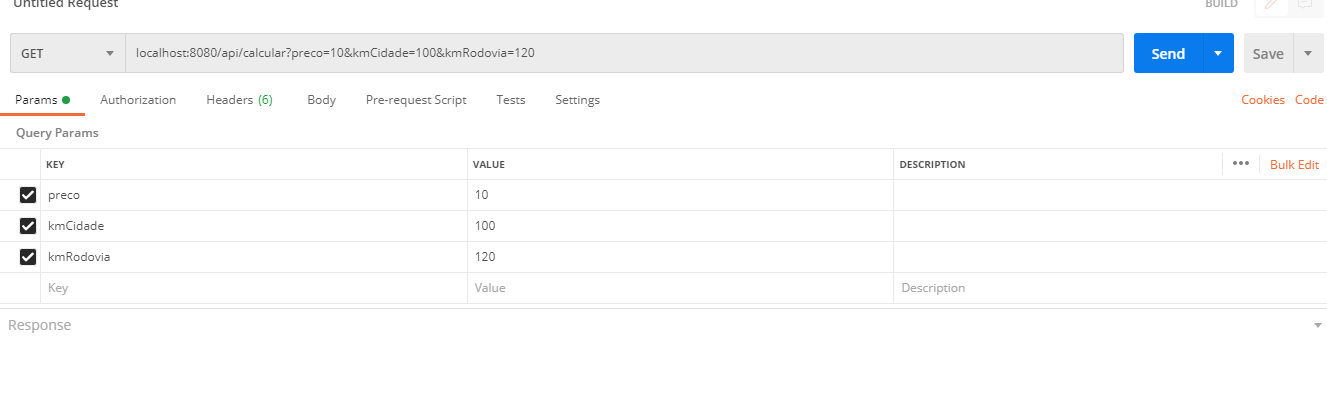
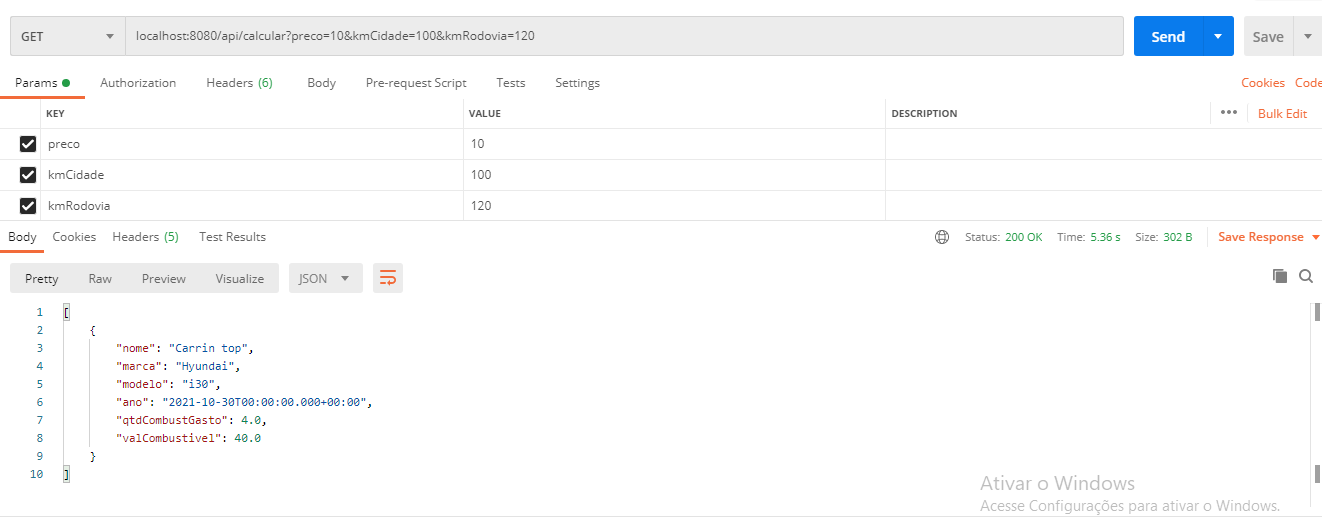
Atualizando README, adicionando imagens novas que serão utilizadas pelo README

diff --git a/README.md b/README.md
@@ -1,2 +1,101 @@
-# Desafio-fluig
-Desafio / teste técnico
+<h1 align="center">    
+    <br/>Desafio-fluig
+</h1>
+<p align="center">Desafio / Teste técnico <strong>Back-end</strong>.</p>
+
+<p align="center">
+  <a aria-label="Versão do Java" href="https://www.java.com/pt-BR/download/ie_manual.jsp?locale=pt_BR">
+    <img src="https://img.shields.io/static/v1?label=Java&message=1.8.0_311&color=success"></img>
+  </a>
+  <a aria-label="Versão do Maven" href="https://maven.apache.org/download.cgi">
+    <img src="https://img.shields.io/static/v1?label=Maven&message=3.8.3&color=red"></img>
+  </a>
+  <a aria-label="Versão do MySql" href="https://dev.mysql.com/downloads/">
+    <img src="https://img.shields.io/static/v1?label=MySql&message=8.0&color=green"></img>
+  </a>
+  <a aria-label="Versão do Postman" href="https://www.postman.com/downloads/">
+    <img src="https://img.shields.io/static/v1?label=Postman&message=8.12.5&color=blue"></img>
+  </a>
+   <a aria-label="Lombok" href="https://projectlombok.org/download">
+    <img src="https://img.shields.io/static/v1?label=Lombok&message=1.18.22&color=blueviolet"></img>
+  </a>
+</p>
+
+## O projeto utiliza Spring-boot.
+
+## 🚀 Instalação
+A porta padrão é **8080**. Ao iniciar seu projeto localmente, acesse `localhost:8080`.  
+Clone o projeto em seu computador e em seguida configure um servidor local no MySql, coloque a **string de conexão** no arquivo `api-desafio/src/main/resources/application.properties` na propriedade `spring.datasource.url` no modelo **jdbc:mysql://localhost:<ServerPortBD>/<DatabaseName>?useSSL=false**, e
+as substitua as informações de username e password pelas credenciais definidas na sua instalação local do MySql.
+  
+É necessário também o download das ferramentas Maven e Postman referenciadas no cabeçalho deste documento.
+
+Dependendo da IDE utilizada para executar poderá ser necessário o download e instalação do Lombok:
+- Exemplo IDEs que precisa instalar: Eclipse, STS, Red Hat Jboss Developer Studio.
+- Exemplo IDE que não precisa instalar: IntelliJ.
+  
+Executar o arquivo Schema.sql presente nesse repositório para correta criação da tabela de banco de dados.
+
+Para compilar e executar a API:
+
+  Execute o projeto na IDE de sua preferência referenciando como classe principal a seguinte: `api-desafio/src/main/java/com/teste/bruno/apidesafio/ApiDesafioApplication.java`
+  
+## Endpoints
+  `/api/cadastrar` : Usado para cadastrar um novo veículo enviado via `body` da requisição tipo POST no formato de JSON com os seguintes parâmetros:
+  ``` bash
+   {
+      "nome":"Bruno",
+      "marca":"Hyundai",
+      "modelo":"i30",
+      "data_fabric":"2021-10-30",
+      "cons_med_cidade":50,
+      "cons_med_rodov":60
+   }
+  ```
+   
+  ## 💻 Preview
+  <h1 align="center">
+      <img src="./images/exemplo-api-cadastrar.png" align="center"></img>
+  </h1>
+  
+  <hr/>
+  
+  `/api/calcular`  : Usado para realizar o cálculo de previsão de gastos, necessita dos parâmetros enviados via `QueryParam` na requisição tipo GET como mostrado no exemplo abaixo:
+  
+  ## 💻 Preview
+  <h1 align="center">
+      <img src="./images/exemplo-api-calcular.png" align="center"></img>
+  </h1>
+  
+  Sendo os parâmetros:
+  - `preco` : Preço da gasolina R$
+  - `kmCidade` : Total de km que será percorrido dentro da cidade
+  - `kmRodovia` : Total de km que será percorrido em rodovias
+  
+  É retornado um JSON com as informações de resposta no modelo exemplificado abaixo:
+  
+   ``` bash
+    [
+      {
+        "nome": "Carrin top",
+        "marca": "Hyundai",
+        "modelo": "i30",
+        "ano": "2021-10-30T00:00:00.000+00:00",
+        "qtdCombustGasto": 4.0,
+        "valCombustivel": 40.0
+      }
+    ]
+  ```
+  
+  <hr/>
+  
+  `/api/status`    : Contém um único método apenas para verificar se o serviço está funcionando.
+  
+  ## 💻 Preview
+  <h1 align="center">
+      <img src="./images/exemplo-api-status.webp" align="center"></img>
+  </h1>
+
+## 📜 Licença
+
+[MIT](./LICENSE) &copy; [Bruno Carvalho](https://www.linkedin.com/in/bruno-carvalho2002/)
